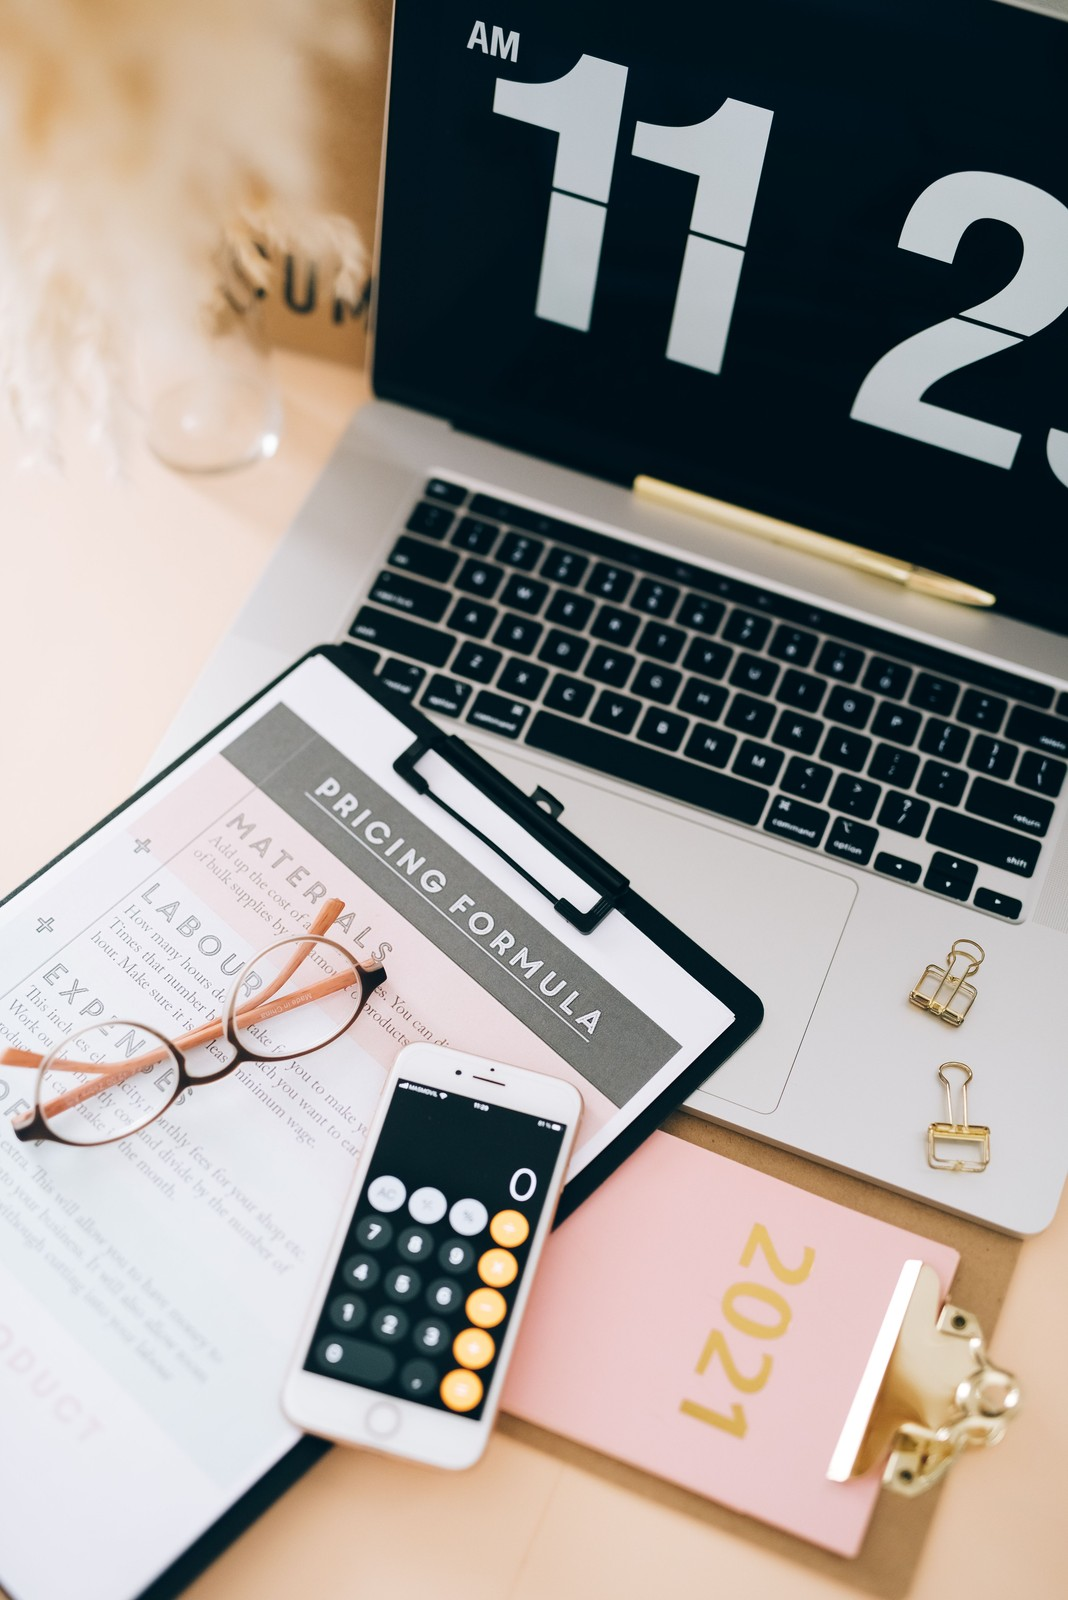
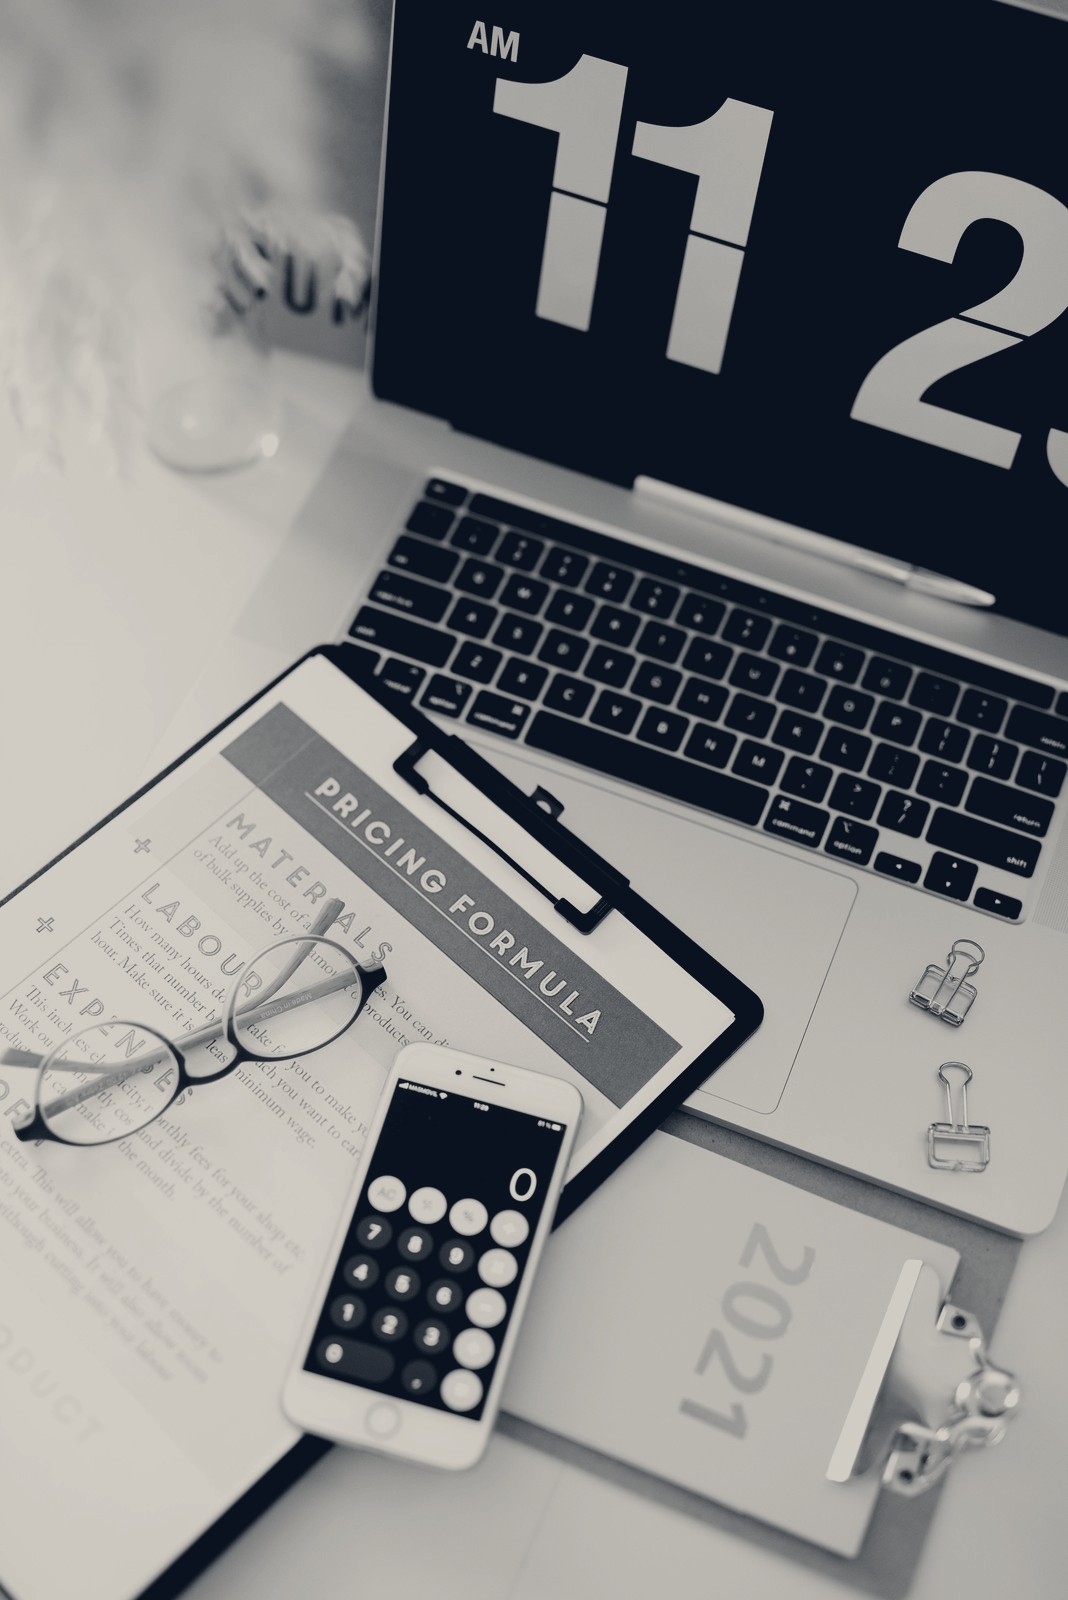
Reconcile the week count, and tone the accelerator hero to the palette
Week count
- Both figures were already correct and neither needed changing: the spine runs
  W00–W12, which is a set-up week plus twelve delivery weeks with one artefact
  each. The problem was only that a reader saw "12 weeks. 12 artefacts." in the
  hero and "approximately 13 weeks" in the FAQ on the same page, with nothing
  explaining the difference.
- The three duration answers now say "13 weeks in total — a set-up week
  followed by twelve delivery weeks, each with its own artefact", which keeps
  the supplied figure and makes the hero agree with it.

Accelerator hero
- The photograph is serviceable; what clashed was its pink pastel cast against
  the bone-and-ink palette. Converted to a warm monochrome, matching the
  treatment already used on the About hero rather than inventing a third look.
  Contrast lifted, because the pastel original was very flat.
- The white point is held at 226 rather than the mat's 250: a first attempt
  mapped white to the paper colour, which made the photograph merge into its
  own frame so the mat, the seal border and the offset plate all read as
  absent. Measured luminance is now 17–204, mean 127.
- Still not the over-the-shoulder photo originally intended — that file was
  never supplied. Dropping it at public/images/accelerator-hero.jpg replaces
  this with no code change. The colour original remains in git history.

Also worth recording, since it cost time and will recur: running
[…]

diff --git a/lib/proto/data.ts b/lib/proto/data.ts
@@ -276,7 +276,7 @@ export const ASK: Record<ProgKey, { q: string; a: string }[]> = {
     { q: "Will I learn product analytics and metrics?", a: "Yes. You will learn how Product Managers define success, choose meaningful metrics, analyse product performance, understand funnels and user behaviour, and use data alongside customer insight to inform decisions." },
     { q: "Will I learn how to work with Designers and Engineers?", a: "Yes. A major part of modern Product Management is cross-functional collaboration. You will learn how PMs work with Product Designers, Engineers, Business Analysts, QA, Operations, Commercial teams and other stakeholders." },
     { q: "Is the program suitable for someone transitioning from Business Analysis or Project Management?", a: "Yes. Professionals from BA, project management, operations, engineering, design, marketing and other backgrounds can transition into Product Management. The program helps you understand both the transferable skills you already have and the product-specific capabilities you need to develop." },
-    { q: "How long is the Product Management program?", a: "The program runs for approximately 13 weeks, combining structured learning, practical exercises, project work and mentor support." },
+    { q: "How long is the Product Management program?", a: "The program runs for 13 weeks in total — a set-up week followed by twelve delivery weeks, each with its own artefact — combining structured learning, practical exercises, project work and mentor support." },
     { q: "Will the program help me build a Product Management portfolio?", a: "The practical work is designed to give you tangible evidence of your product thinking and capability. Rather than simply saying you understand Product Management, you should be able to demonstrate how you approached problems and made product decisions." },
     { q: "What makes the Upthrust Product Management program different?", a: "We focus on helping you think and operate like a Product Manager. The emphasis is on real product problems, decision-making, practical artefacts, business thinking, customer understanding and cross-functional execution—not simply learning frameworks." },
   ],
@@ -289,7 +289,7 @@ export const ASK: Record<ProgKey, { q: string; a: string }[]> = {
     { q: "Will I learn how to write real Business Analysis documents?", a: "Yes. You will learn how to produce and work with practical artefacts such as business requirements, process flows, user stories, acceptance criteria, stakeholder maps, requirement specifications and other documentation commonly used by delivery teams." },
     { q: "Will the program teach Agile Business Analysis?", a: "Yes. You will understand how Business Analysts operate within Agile and modern product teams, including working with Product Managers, Product Owners, Designers, Engineers, QA teams and other stakeholders." },
     { q: "Is the program suitable for someone moving into tech from another industry?", a: "Yes. You do not need to come from a technology background. The program helps you understand how modern digital products and delivery teams work while developing transferable analysis and stakeholder-management skills." },
-    { q: "How long is the Business Analysis program?", a: "The Upthrust capability program runs for approximately 13 weeks, combining structured learning with practical exercises, projects and mentor support." },
+    { q: "How long is the Business Analysis program?", a: "The Upthrust capability program runs for 13 weeks in total — a set-up week followed by twelve delivery weeks, each with its own artefact — combining structured learning with practical exercises, projects and mentor support." },
     { q: "Will I have something to demonstrate to employers after the program?", a: "The program is designed to help you build practical evidence of your capability through the activities, artefacts and project work you complete. This can help you explain what you can actually do during interviews rather than relying only on theoretical knowledge." },
     { q: "Will the program prepare me for Business Analyst interviews?", a: "The broader objective is to help you become capable of doing the job, which naturally strengthens your ability to discuss BA scenarios, requirements, stakeholders, processes and delivery situations during interviews." },
     { q: "What makes the Upthrust Business Analysis program different?", a: "The focus is on capability, not just classroom knowledge. You learn Business Analysis by applying it to realistic problems, creating relevant artefacts, working through delivery scenarios and developing the thinking expected of a practising Business Analyst." },
@@ -305,7 +305,7 @@ export const ASK: Record<ProgKey, { q: string; a: string }[]> = {
     { q: "Will I learn prototyping and usability testing?", a: "Yes. You will learn how to turn designs into interactive prototypes and how usability testing can be used to validate assumptions and identify areas that need improvement." },
     { q: "Will I learn how to build a design portfolio?", a: "The practical work completed during the program is intended to help you demonstrate your design process and thinking. You will learn that a strong portfolio should show not only attractive screens but also the problem, reasoning and decisions behind the solution." },
     { q: "Will I learn how Product Designers work with Product Managers and Engineers?", a: "Yes. Product Design is highly collaborative. You will understand how Designers work with Product Managers, Business Analysts, Engineers and other stakeholders from discovery through implementation." },
-    { q: "How long is the Product Design program?", a: "The program runs for approximately 13 weeks, combining structured learning, practical exercises, project work and mentor support." },
+    { q: "How long is the Product Design program?", a: "The program runs for 13 weeks in total — a set-up week followed by twelve delivery weeks, each with its own artefact — combining structured learning, practical exercises, project work and mentor support." },
     { q: "What makes the Upthrust Product Design program different?", a: "The focus is not simply on teaching you how to make beautiful screens. The objective is to help you become a problem-solving Product Designer who can understand users, make thoughtful design decisions, communicate those decisions and contribute effectively within a real product team." },
   ],
   po: [
